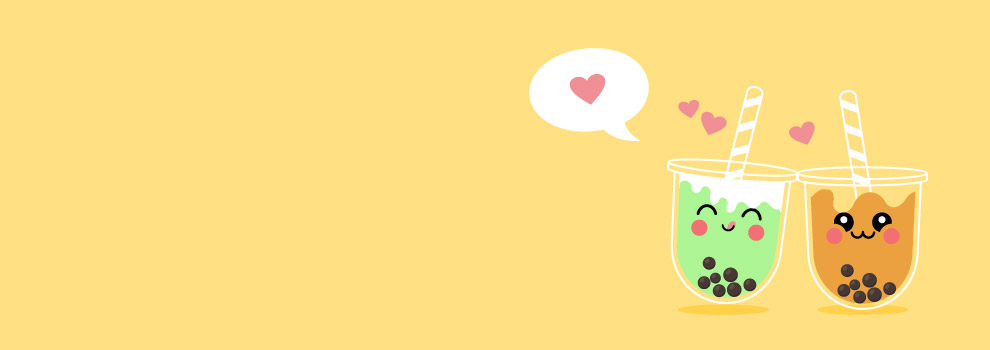
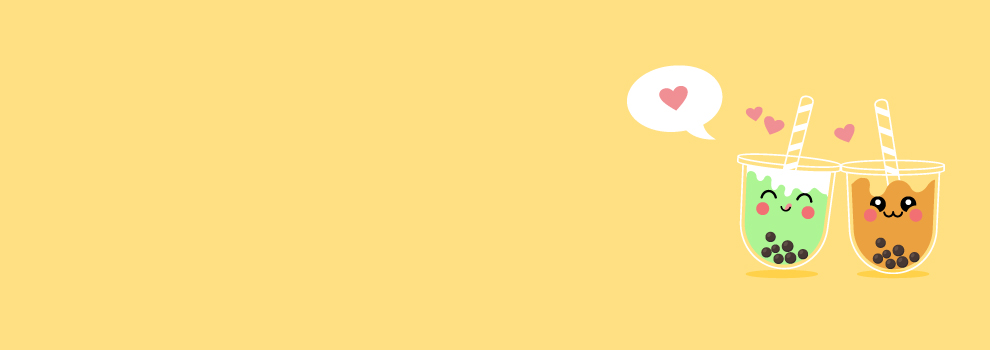
fixed menu page with new db

Changed region(s): [[0.5152, 0.1143, 0.9697, 0.9143]]

diff --git a/wwwroot/css/sips-styles.css b/wwwroot/css/sips-styles.css
@@ -177,7 +177,7 @@ h1,h2,h3,h5,h6{
 width:100%;
 background-repeat:no-repeat;
 background-size:cover;
-background-position:top;
+background-position:center;
 }
 .about-header{
 display:flex;
@@ -420,5 +420,36 @@ a {
 .tea-container{
     display:flex;
     flex-direction:column;
+}
+
+.tea-list{
+    display:flex;
+    flex-direction:column;
+justify-content:center;
+}
+.tea-item{
+display:flex;
+    flex-direction:row;
+    justify-content:space-between;
+    align-items:center;
+    margin:10px 0;
+}
+.tea-item img{
+    width:200px;
+}
+.tea-copy{
+    text-align:left;
+    width:500px;
+}
+
+.tea-btns{
+display:flex;
+    flex-direction:column;
+    gap:1vh;
+}
+.tea-btns button{
+    width:100px;
+    border:0;
+    padding:10px;
 }
 

diff --git a/Repositories/MenuRepo.cs b/Repositories/MenuRepo.cs
@@ -1,36 +1,36 @@
 using Sips.Data;
-using Sips.Models;
+using Sips.SipsModels;
 
 namespace Sips.Repositories
 {
     public class MenuRepo
     {
-        private readonly SipsContext _db;
+        private readonly SipsdatabaseContext _db;
 
 
 
-        public MenuRepo(SipsContext db)
+        public MenuRepo(SipsdatabaseContext db)
         {
             _db = db;
         }
 
         public IEnumerable<Item> GetMilkTeas()
         {
-            List<Item> items = _db.Items.Where(item => item.ItemType == "Milk Tea").ToList();
+            List<Item> items = _db.Items.Where(item => item.ItemTypeId == 1).ToList();
 
             return items;
         }
 
         public IEnumerable<Item> GetFruitTeas()
         {
-            List<Item> items = _db.Items.Where(item => item.ItemType == "Fruit Tea").ToList();
+            List<Item> items = _db.Items.Where(item => item.ItemTypeId == 2).ToList();
 
             return items;
         }
 
         public IEnumerable<Item> GetSlushes()
         {
-            List<Item> items = _db.Items.Where(item => item.ItemType == "Slush").ToList();
+            List<Item> items = _db.Items.Where(item => item.ItemTypeId == 3).ToList();
 
             return items;
         }

diff --git a/Controllers/MenuController.cs b/Controllers/MenuController.cs
@@ -1,7 +1,7 @@
 using Microsoft.AspNetCore.Mvc;
 using Sips.Interfaces;
 using Sips.Repositories;
-using Sips.Models;
+using Sips.SipsModels;
 using Sips.Data;
 
 namespace Sips.Controllers
@@ -9,11 +9,11 @@ namespace Sips.Controllers
     public class MenuController : Controller
     {
         //private readonly IRepository _menuRepo;
-        private readonly SipsContext _db;
+        private readonly SipsdatabaseContext _db;
 
 
 
-        public MenuController(SipsContext db)
+        public MenuController(SipsdatabaseContext db)
         {
             _db = db;
         }
@@ -29,7 +29,7 @@ namespace Sips.Controllers
 
             var milkTeas = menuRepo.GetMilkTeas();
 
-            var viewModel = new MilkTeaViewModel
+            var viewModel = new MilkTeaVM
             {
                 title = "Milk Tea Menu",
                 Items = milkTeas.ToList()

diff --git a/SipsModels/MilkTeaVM.cs b/SipsModels/MilkTeaVM.cs
@@ -2,9 +2,9 @@
 
 namespace Sips.SipsModels
 {
-    public class MilkTeaViewModel
+    public class MilkTeaVM
     {
-        public string title =  "Milk Tea";
+        public string title = "Milk Tea";
         public List<Item> Items { get; set; }
     }
 }
